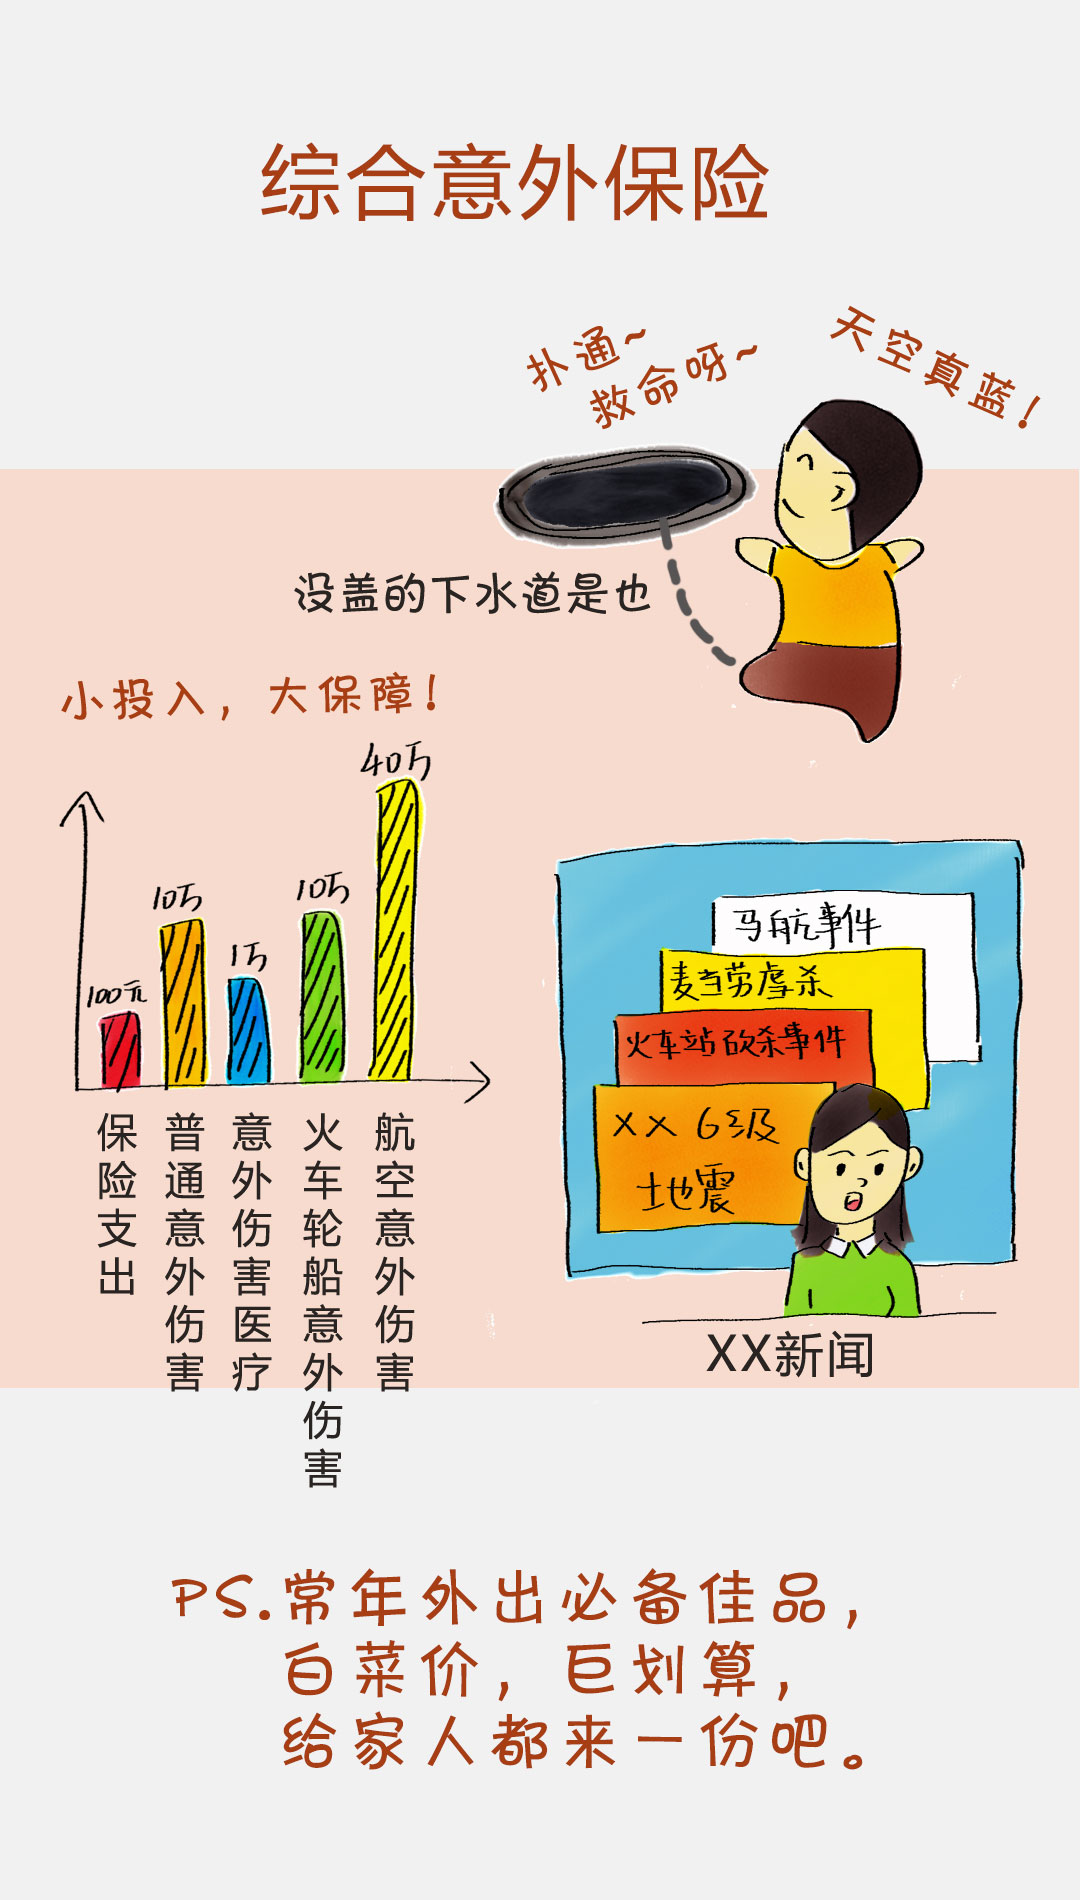
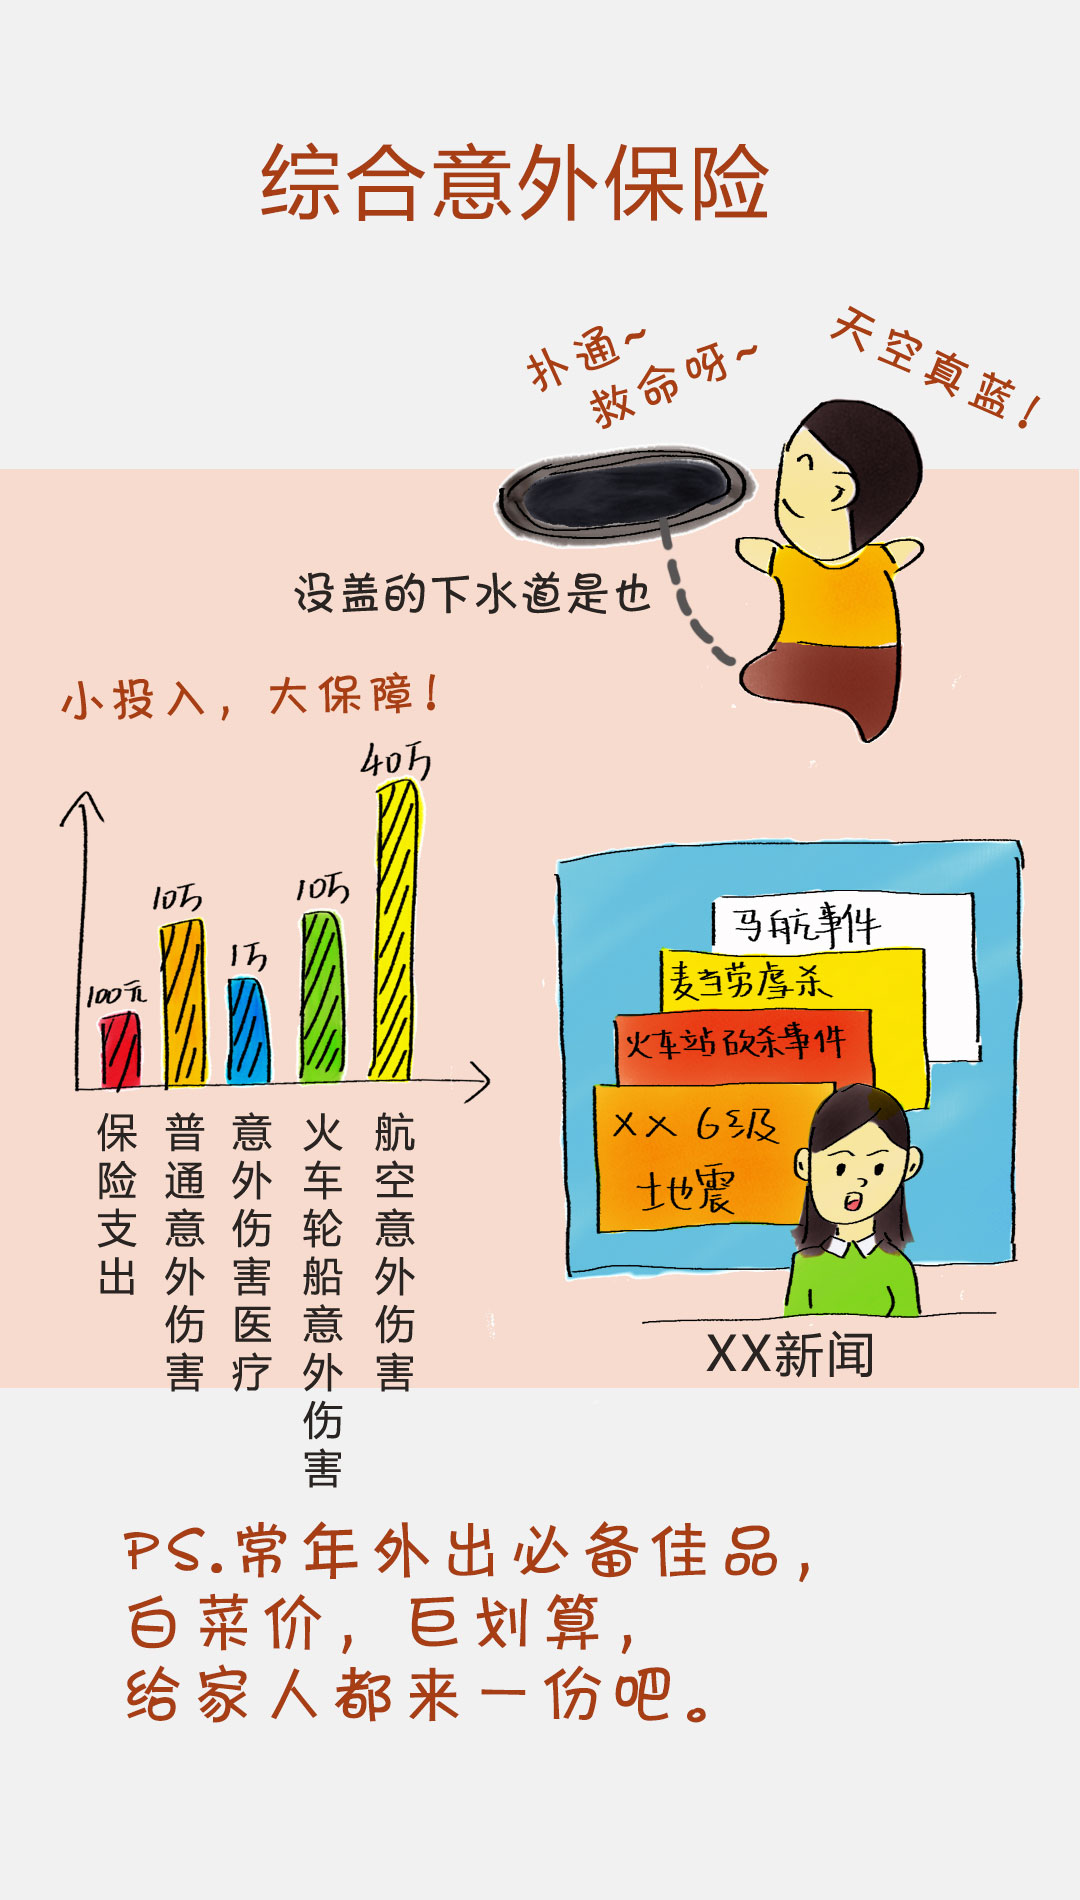
增加去购买按钮，预约按钮，图片微调

Changed region(s): [[0.1222, 0.7763, 0.7944, 0.9316]]

diff --git a/@/father/index.html b/@/father/index.html
@@ -3,7 +3,7 @@
 <!-- <html manifest="qing-app.appcache"> -->
   <head>
     <meta http-equiv="Content-Type" content="text/html; charset=utf-8" />
-    <title>爸，父亲节快乐！-盈保倍</title>
+    <title>父亲节，有礼了！</title>
     <meta http-equiv="X-UA-Compatible" content="IE=edge">
     <meta name="viewport" content="width=device-width,initial-scale=1.0,maximum-scale=1.0,user-scalable=0">
     <meta name="apple-mobile-web-app-capable" content="yes">
@@ -23,7 +23,7 @@
     <div id="page-content" class="page-content" style="position:absolute;z-index:-999;left:-100000px;top:-111111px;">
       <div id="img-content">
         <div class="media" id="media">
-          <img onerror="this.parentNode.removeChild(this)" src="./icon/share-logo.png?20140613-4">
+          <img onerror="this.parentNode.removeChild(this)" src="./icon/share.png?20140613-4">
         </div>
         <div class="text">
           <p class="p0">专业保险定制化比较平台----盈保倍，谁说我在卖保险？</p>
@@ -81,34 +81,37 @@
           但是别只会和孩子做朋友，家庭责任重如山啊。
           奶粉钱、幼儿园、。。。。。。
           粑粑，你很重要。
-          你需要的是：意外险（人保寿）、定期寿险（新华）、防癌保险（新华）
+          最佳选择：定期寿险、定期防癌疾病保险
         </div>
       </div>
       <div class="section" id="page4-1">
         <div class="up slide-tip"></div>
         <div class="down slide-tip"></div>
-        <img src="./icon/page4-1.jpg?20140613-4" high-src="./icon.high/page4-1.jpg?20140613-4" alt="（新华）定期寿险">
+        <img src="./icon/page4-1.jpg?20140613-4" high-src="./icon.high/page4-1.jpg?20140613-4" alt="定期寿险">
         <div class="page-desc">
-          （新华）定期寿险：
-          1、知名企业有保障！
-          2、意外、疾病，说来就来。
-          3、因意外或疾病导致全残或身故的债务危机，家人怎么办。
-          4、选对保险，给家人留份保障。
-          5、小投入，大保障！ 
-          6、保险期间灵活选择，总有一款适合你！小秘密：越早买越便宜哦！
+          定期寿险：
+          1、意外、疾病，说来就来。
+          2、因意外或疾病导致全残或身故的债务危机，家人怎么办。
+          3、选对保险，给家人最贴心的呵护。
+          4、小投入，大保障！ 
+          5、保险期间灵活选择，总有一款适合你！小秘密：越早买越便宜哦！
         </div>
+		<!--增加“去购买”按钮，位置具体参考psd文件：页4.3.1.psd
+		-->
       </div>
       <div class="section" id="page4-2">
         <div class="up slide-tip"></div>
         <div class="down slide-tip"></div>
-        <img src="./icon/page4-2.jpg?20140613-4" high-src="./icon.high/page4-2.jpg?20140613-4" alt="康健吉顺定期防癌疾病保险">
+        <img src="./icon/page4-2.jpg?20140613-4" high-src="./icon.high/page4-2.jpg?20140613-4" alt="定期防癌疾病保险">
         <div class="page-desc">
-          （新华）康健吉顺定期防癌疾病保险：
+          定期防癌疾病保险：
           1、知道中国每天有8550人患癌症吗？还抱着我未来40年都不会患癌症的幻想？亲，你太自信了吧？！
           2、SO，假设有一天我不幸……住院、手术、放疗、化疗、器官移植、或不幸BYEBYE，妻子、小孩、父母的生活会一夜回到解放前吧！
           3、康健吉顺定期防癌疾病保险，给你全程呵护不测漏哦！
           4、新华人寿保险值得信赖！
         </div>
+		<!--增加“去购买”按钮，位置具体参考psd文件：页4.4.1.psd
+		-->
       </div>
       <div class="section" id="page5">
         <div class="up slide-tip"></div>
@@ -135,6 +138,8 @@
           3、华夏常青树健康保障计划：生重病了？、没生病 ，老了？、不小心byebye了？
           4、小投入，大保障！全方位无死角啊！
         </div>
+		<!--增加“去购买”按钮，位置具体参考psd文件：页5.2.1.psd
+		-->
       </div>
       <div class="section" id="page6">
         <div class="up slide-tip"></div>
@@ -150,6 +155,8 @@
           爸爸，感谢您让我成长成顶天立地的男子汉。
           你需要的是：意外，医疗保险，资产配置
         </div>
+		<!--增加“预约”按钮，位置具体参考psd文件：页6.1.1.psd
+		-->
       </div>
       <div class="section" id="page6-1">
         <div class="up slide-tip"></div>
@@ -163,6 +170,8 @@
           4、常年外出必备佳品，白菜价，巨划算。
         </div>
       </div>
+	  <!--增加“去购买”按钮，位置具体参考psd文件：页6.2.1.psd
+		-->
 
       <div class="section" id="page7">
         <div class="up slide-tip"></div>
@@ -187,6 +196,8 @@
         <div class="page8-yuyue-box">
           <a href="http://www.ingbaobei.com/cpx/weixinUrlTab.do?method=forwards&amp;urlType=CPXD"><img src="./icon/page8-yuyue.png?20140613-4" high-src="./icon.high/page8-yuyue.png?20140613-4" alt="预约"></a>
         </div>
+		<!--修改“预约”按钮，位置具体参考psd文件：页8.2.1.psd
+		-->
       </div>
     </div>
     
